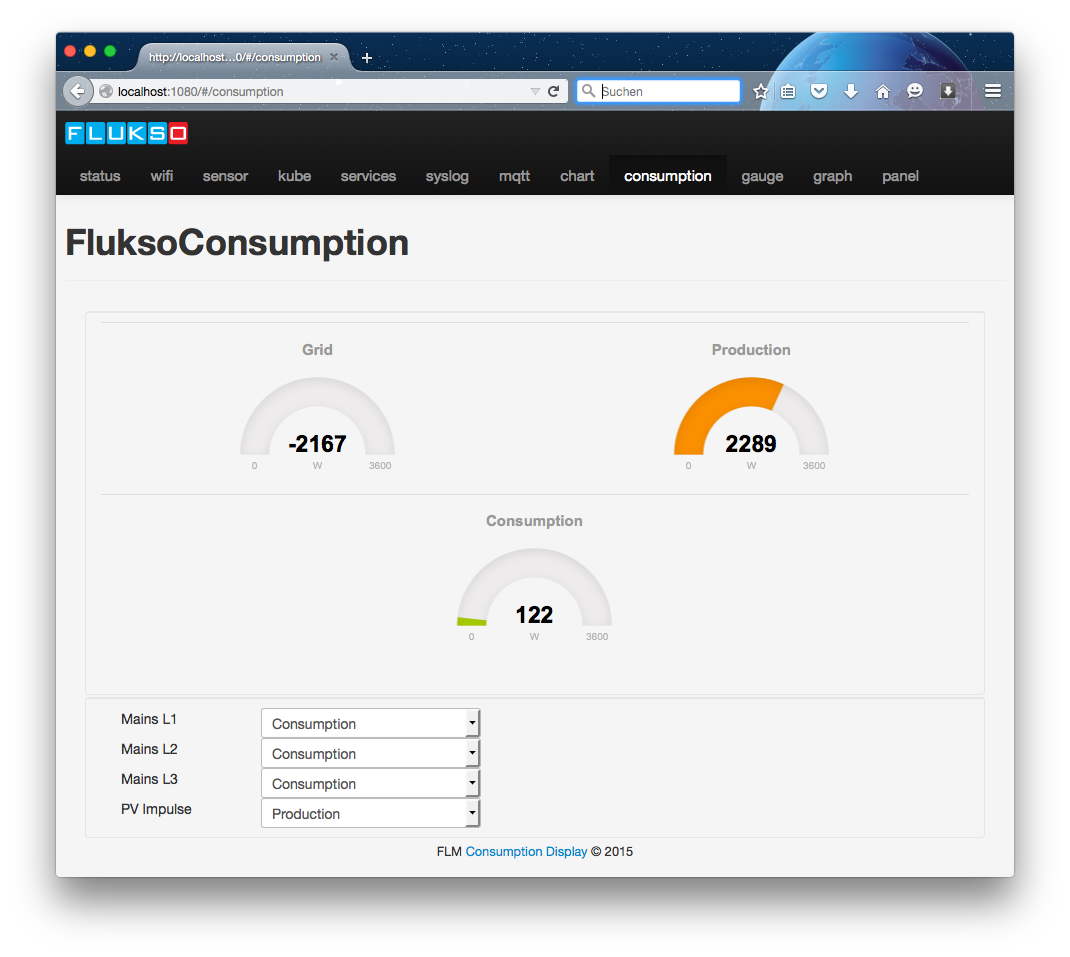
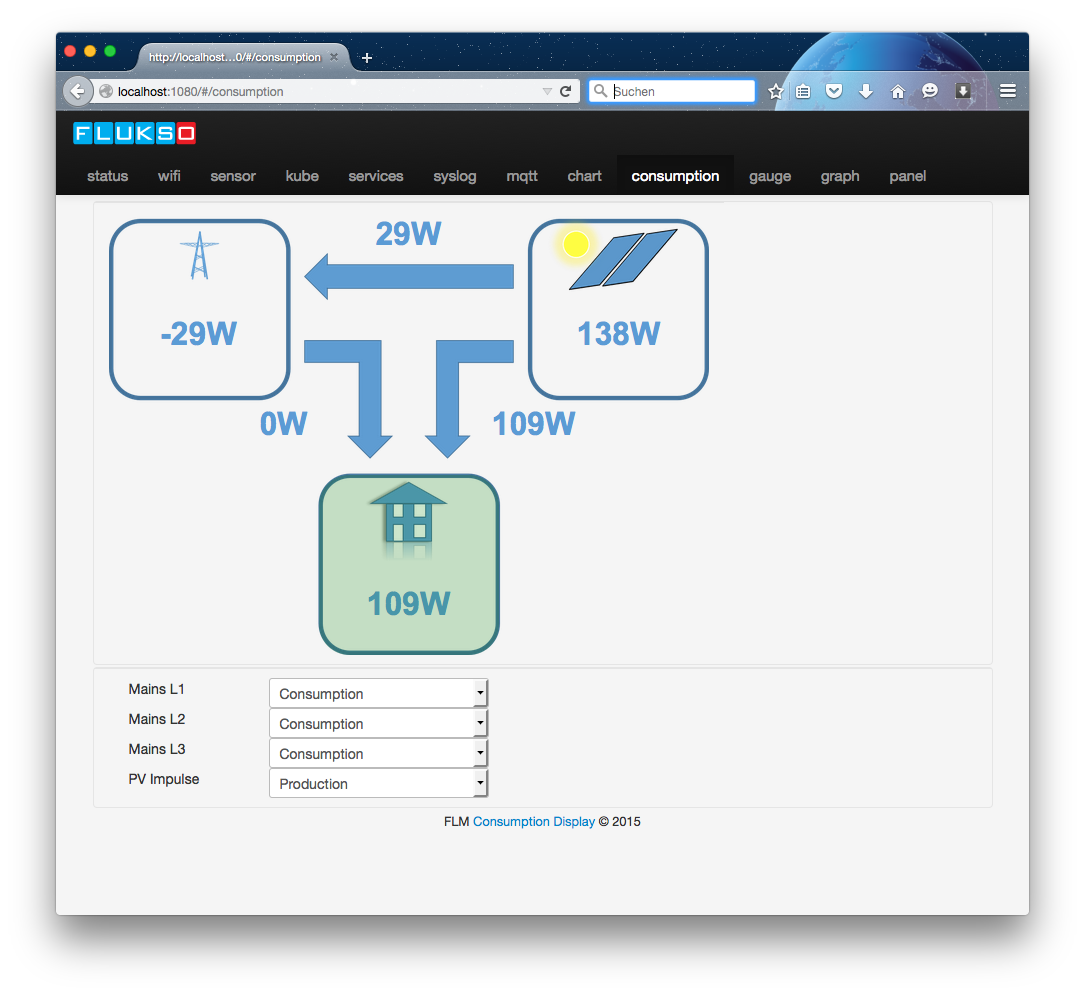
simpler alternative

diff --git a/www/scripts/controllers/consumption.js b/www/scripts/controllers/consumption.js
@@ -36,35 +36,6 @@ var ConsumptionCtrl = function($scope) {
     var broker = location.hostname;
     var port = 8083;
     var sensors = {};
-    var limit = 3600;
-    // initialize the consumption gauges
-    var grid = new JustGage({
-        id: "grid",
-        value: 0,
-        title: "Grid",
-        label: "W",
-        min: 0,
-        max: limit,
-        decimals: 0
-    });
-    var production = new JustGage({
-        id: "production",
-        value: 0,
-        title: "Production",
-        label: "W",
-        min: 0,
-        max: limit,
-        decimals: 0
-    });
-    var consumption = new JustGage({
-        id: "consumption",
-        value: 0,
-        title: "Consumption",
-        label: "W",
-        min: 0,
-        max: limit,
-        decimals: 0
-    });
     // the web socket connect function
     function mqttConnect() {
         var wsID = "FLM" + parseInt(Math.random() * 100, 10);
@@ -206,22 +177,16 @@ var ConsumptionCtrl = function($scope) {
             }
         }
         var gridValue = consumptionValue - productionValue;
-        // update the gauges
-        if (gridValue > limit) {
-            grid.refresh(gridValue, gridValue);
-        } else {
-            grid.refresh(gridValue);
-        }
-        if (productionValue > limit) {
-            production.refresh(productionValue, productionValue);
-        } else {
-            production.refresh(productionValue);
-        }
-        if (consumptionValue > limit) {
-            consumption.refresh(consumptionValue, consumptionValue);
-        } else {
-            consumption.refresh(consumptionValue);
-        }
+        var selfuseValue = productionValue > consumptionValue ? consumptionValue : productionValue;
+        var supplyValue = productionValue > consumptionValue ? productionValue - consumptionValue : 0;
+        var obtainedValue = consumptionValue - productionValue > 0 ? consumptionValue - productionValue : 0;
+        $("#grid").html(gridValue + "W");
+        $("#supply").html(supplyValue + "W");
+        $("#production").html(productionValue + "W");
+        $("#selfuse").html(selfuseValue + "W");
+        $("#consumption").html(consumptionValue + "W");
+        $("#obtained").html(obtainedValue + "W");
+        if (productionValue >= consumptionValue) $("#status").css("background-color", "green"); else $("#status").css("background-color", "red");
     }
     mqttConnect();
 };

diff --git a/www/views/consumption.html b/www/views/consumption.html
@@ -1,23 +1,31 @@
+<style type="text/css">
+      .watt {position:absolute; width:150px; text-align:center; color: rgb(91,155,213); font-family:arial; font-size:32px; font-weight:bold;}
+      #image {position:relative; left:0;top:0; width:600px}
+      #grid { top:120px; left:30px;}
+      #supply {top:20px; left:240px;}
+      #selfuse {top:210px; left:365px;}
+      #production {top:120px; left:450px;}
+      #consumption {top:390px; left:240px;}
+      #obtained {top:210px; left:115px;}
+      #status {position:absolute; top:272px; left:225px; width:180px; height:180px; border-radius:30px; opacity:0.2;}
+</style>
+
 <div>
     <alert ng-repeat="alert in alerts" type="alert.type" close="closeAlert($index)">{{alert.msg}}</alert>
 </div>
 
-<div class="page-header">
-    <h1>FluksoConsumption</h1>
-</div>
 <div class="container-fluid">
     <div class="accordion-group">
-        <div class="accordion-inner">
-           <table class="table">
-               <tr>
-                 <td><div id="grid"></div></td>
-                 <td><div id="production"></div></td>
-               </tr>
-               <tr>           
-                 <td colspan="2"><div id="consumption"></div></td>
-               </tr>
-           </table>
-        </div>
+        <div class="accordion-inner" id="image">
+    <img src="img/EnergyConsumption.png" alt="Consumption Graphics" />
+    <div id="grid" class="watt"></div>
+    <div id="supply" class="watt"></div>
+    <div id="selfuse" class="watt"></div>
+    <div id="production" class="watt"></div>
+    <div id="consumption" class="watt"></div>
+    <div id="obtained" class="watt"></div>
+    <div id="status"></div>
+    </div>
     </div>
     <div class="accordion-group">
         <div class="accordion-inner" id="choices"></div>
